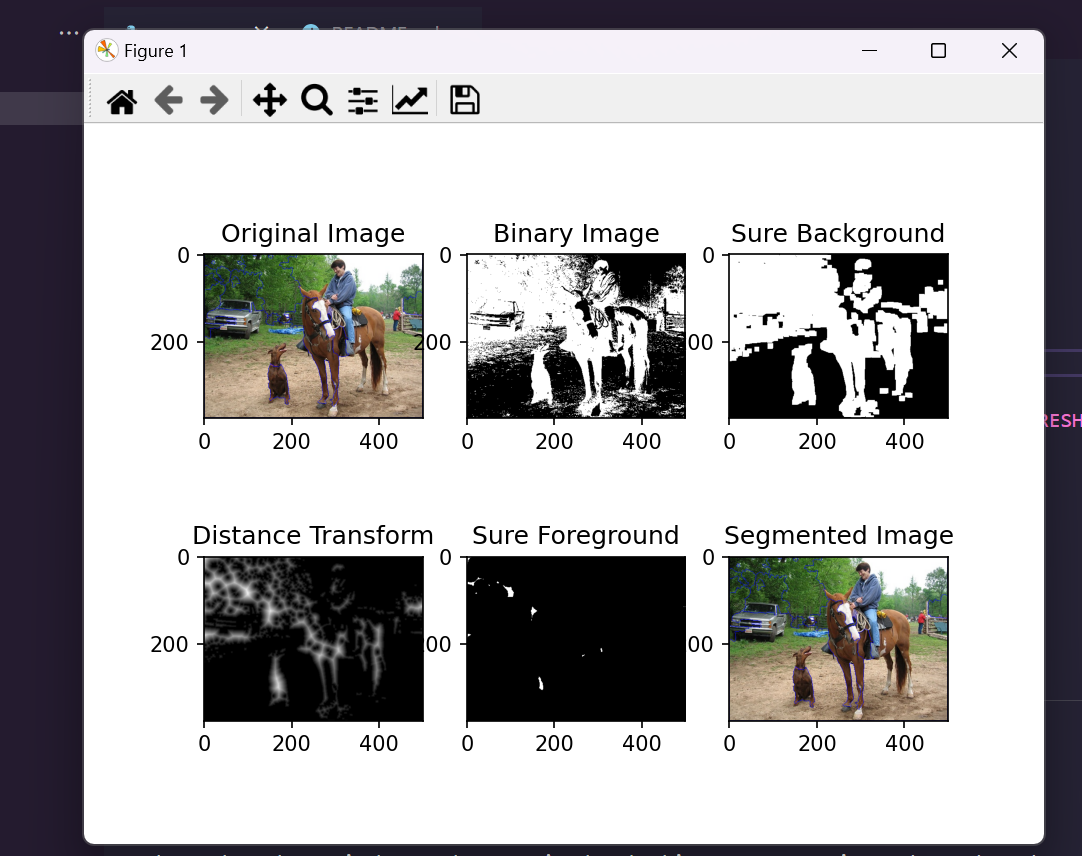
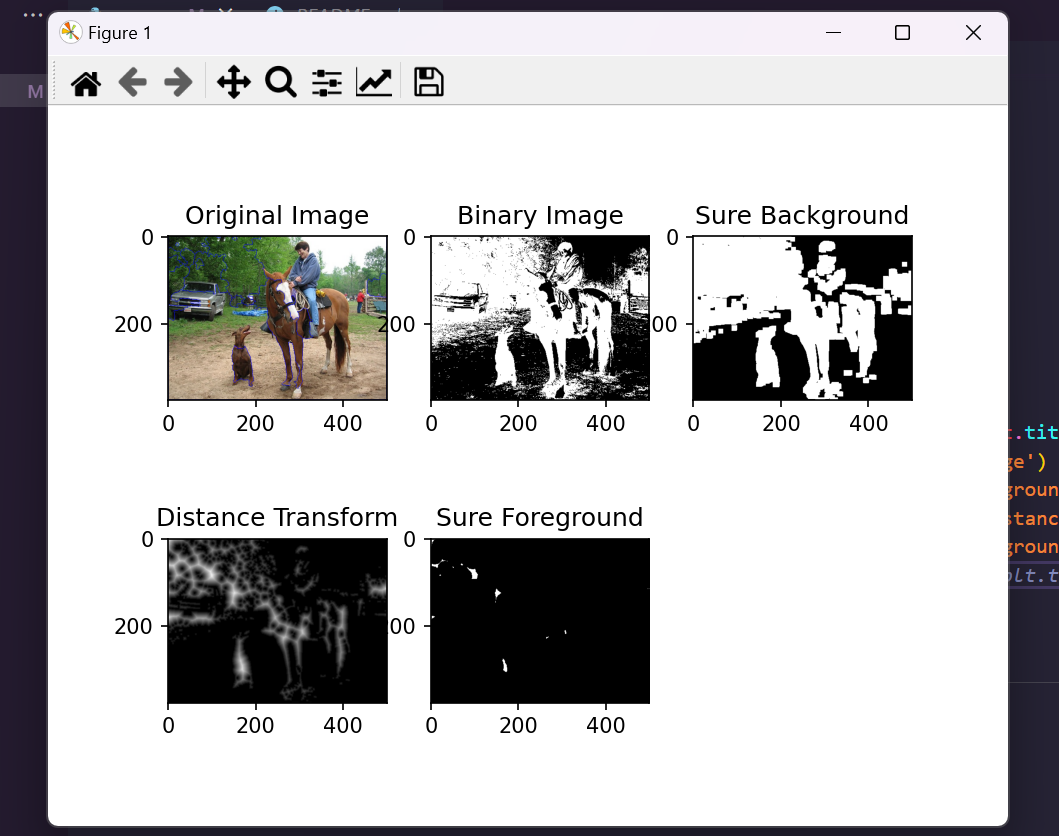
little change

Changed region(s): [[0.0, 0.0, 1.0, 0.9952], [0.1246, 0.5909, 0.9037, 0.9019], [0.4674, 0.6842, 0.4986, 0.7153]]

diff --git a/app.py b/app.py
@@ -45,5 +45,5 @@ plt.subplot(232), plt.imshow(binary, cmap='gray'), plt.title('Binary Image')
 plt.subplot(233), plt.imshow(sure_bg, cmap='gray'), plt.title('Sure Background')
 plt.subplot(234), plt.imshow(dist_transform, cmap='gray'), plt.title('Distance Transform')
 plt.subplot(235), plt.imshow(sure_fg, cmap='gray'), plt.title('Sure Foreground')
-plt.subplot(236), plt.imshow(cv2.cvtColor(image, cv2.COLOR_BGR2RGB)), plt.title('Segmented Image')
+# plt.subplot(236), plt.imshow(cv2.cvtColor(image, cv2.COLOR_BGR2RGB)), plt.title('Segmented Image')
 plt.show()
